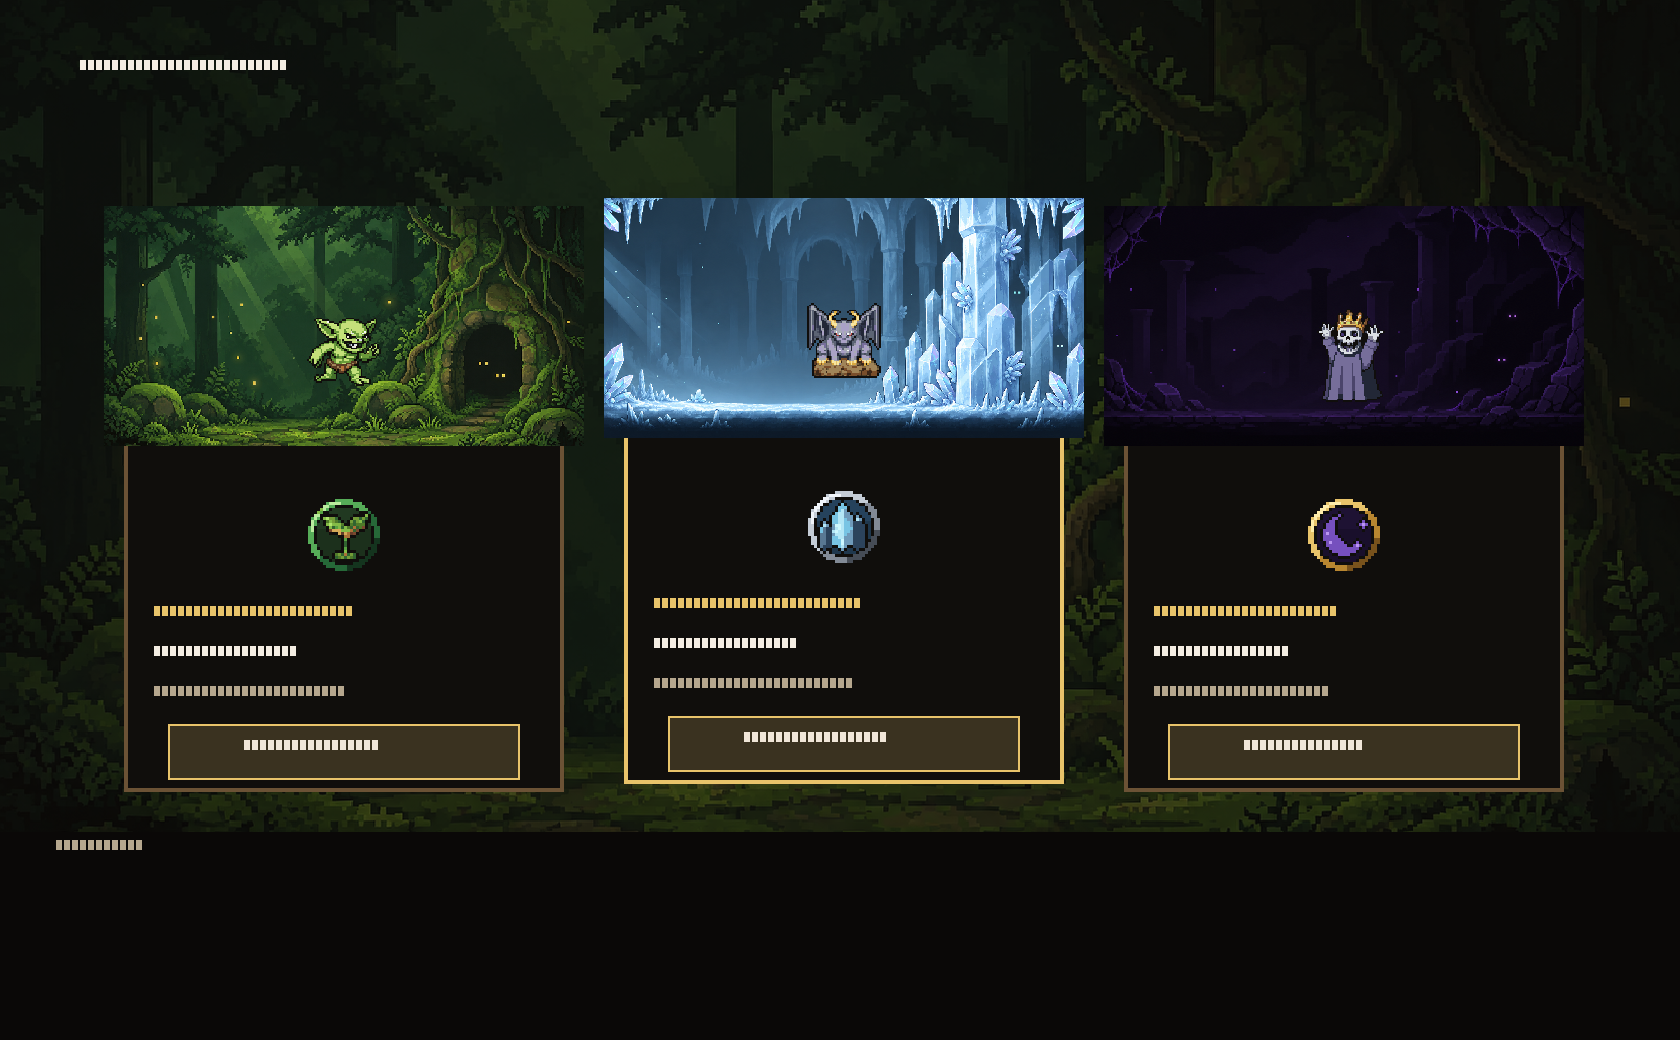
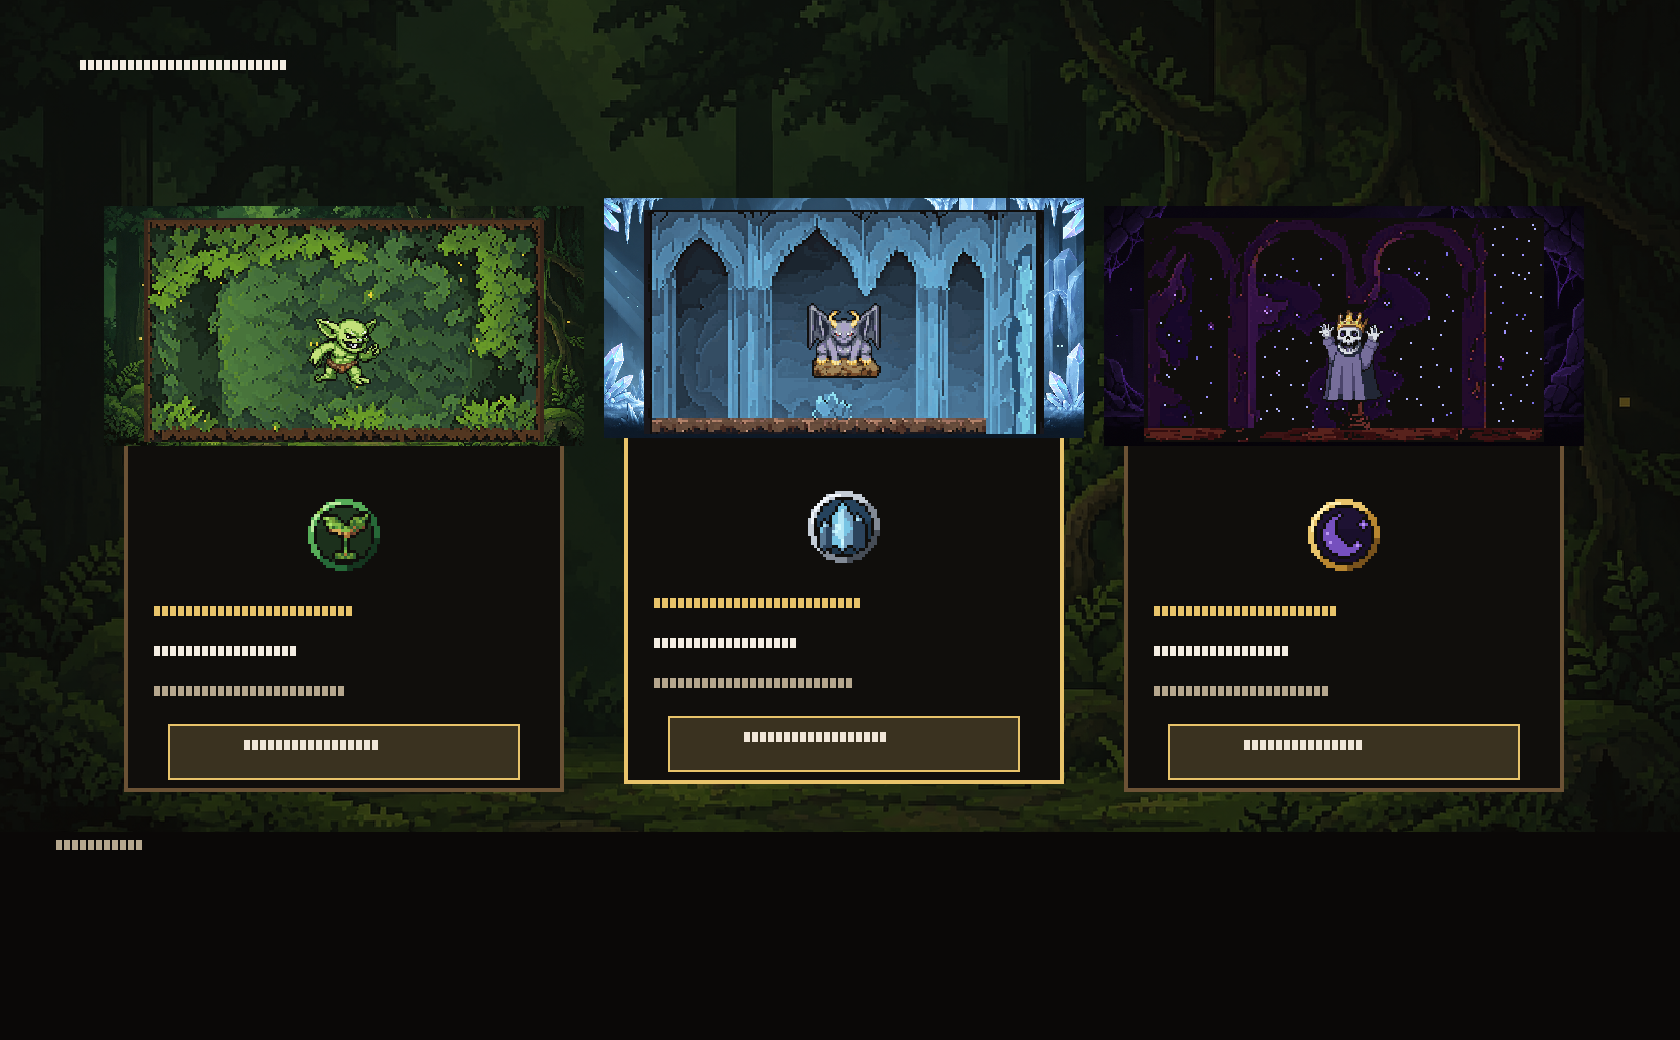
art: title picker card vignettes
Install batch2 Quick/Deeper/Big card vignettes (200×112 → 400×224) on the
New Game picker, keep dim biome splash underneath, and add a headless
selftest. Regenerates 03-picker proof. Open for Cherry repot.

Changed region(s): [[0.0619, 0.1846, 0.3405, 0.4308], [0.3714, 0.1846, 0.619, 0.4308], [0.681, 0.2154, 0.9286, 0.4308]]

diff --git a/playtest/repot/inbox/REQ-20261117-title-picker-vignettes.md b/playtest/repot/inbox/REQ-20261117-title-picker-vignettes.md
@@ -1,0 +1,45 @@
+---
+id: REQ-20261117-title-picker-vignettes
+status: open
+priority: normal
+tip_sha: deef5dc29aa681f7815c3288732f3f17bff5b6e2
+branch: cursor/title-picker-card-art-7b32
+created: 2026-11-17T07:30:00Z
+created_by: cloud-agent
+viewport: 1680x1040
+entry: fresh save → intro → title → New Game → picker
+---
+
+# Title picker card vignettes
+
+Adds the three batch2 card vignettes (Quick/Verdant, Deeper/Crystal, Big/Abyss) on the New Game picker cards. Splash stays as a dim deep background; vignette is 400×224 at card-local (20, 12). Cloud agent cannot F5; Cherry fulfills with godot-mcp.
+
+## Rules (verbatim)
+
+- **Drive the game only with godot-mcp injected input** (mouse move/click/keys through the MCP). **Never OS-level / computer-use control of Nathan's screen.**
+- **Fresh save.** Real player path only: **no `_dev_*`, no `preview_*` hooks, no Grant, no DevChrome hotkeys, no forced poses or forced milestones.**
+
+## What to verify
+
+- Each picker card shows its vignette in the upper art well (above the fade / labels).
+- Mapping: Quick → verdant vignette, Deeper → crystal, Big → abyss.
+- Presenter, goal ring, title/biome/line labels, and Pick button are still readable; vignette does not cover labels.
+- No "Tier" / "ATK" on screen.
+
+## Screenshots required
+
+| id | room | setup | expect | filename |
+|---|---|---|---|---|
+| 01 | picker | New Game, default focus Card_0 | three cards; each has a distinct vignette above the labels; Quick focused | 01-picker-vignettes.png |
+| 02 | picker | hover / focus Card_1 (Deeper) | Deeper card rises 8 px with gold border; crystal vignette visible | 02-picker-deeper-hover.png |
+
+## Pass criteria
+
+- Every `expect` is readable from the PNG.
+- No "Tier"/"ATK" text anywhere.
+- No console errors.
+- All rows shot at 1680×1040.
+
+## Outbox path
+
+`playtest/repot/outbox/REQ-20261117-title-picker-vignettes/`
